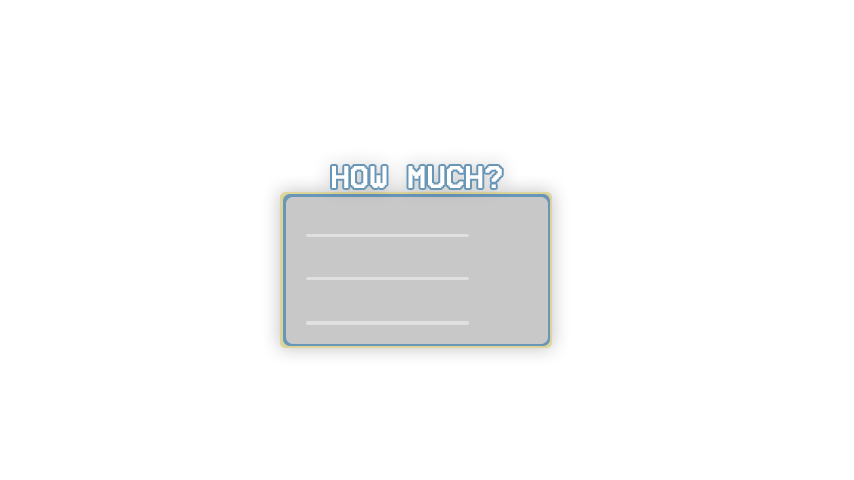
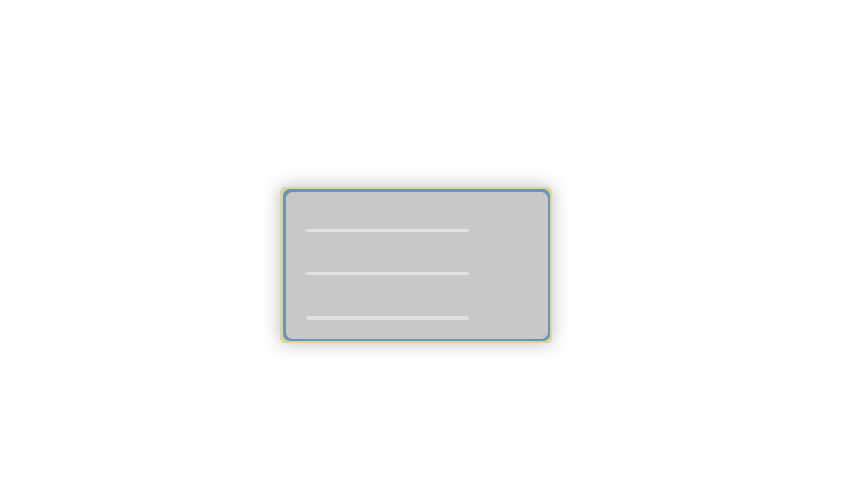
shop

Changed region(s): [[0.3044, 0.3438, 0.6698, 0.4375], [0.3349, 0.6875, 0.6698, 0.75]]

diff --git a/core/src/it/slagyom/ShopScreen.java b/core/src/it/slagyom/ShopScreen.java
@@ -72,6 +72,7 @@ public class ShopScreen implements Screen {
 	// di quel tipo si vogliono
 	public ShopScreen(final GameSlagyom game) {
 		this.game = game;
+
 		// SCREEN INITIALIZING
 		camera = new OrthographicCamera();
 		viewport = new ExtendViewport(854, 480, camera);
@@ -108,25 +109,25 @@ public class ShopScreen implements Screen {
 		coins = new Label("" + Game.player.coins, MenuScreen.skin);
 
 		buyButton.addListener(new ClickListener() {
-			@SuppressWarnings("static-access")
 			@Override
 			public void clicked(InputEvent event, float x, float y) {
 				// se non si scrive nulla nei text field da problemi
 				// bisgna assicurarsi che ci sia scritto qualcosa
 				boolean buy = false;
-				if (potionsTable.isVisible() && level3n.getText() != null) {
-					int tmp = (int) (Game.player.coins - (Integer.parseInt(level3n.getText())) * itemSelected.price);
+				if (potionsTable.isVisible() && level2n.getText() != null) {
+					int tmp = (int) (Game.player.coins - (Integer.parseInt(level2n.getText())) * itemSelected.price);
 					if (tmp >= 0) {
 						buy = true;
 						refreshedCoins = tmp;
-						Game.player.bag.add(itemSelected);
+						Item a = new Item();
+						for (int i = 0; i < Integer.parseInt(level2n.getText()); i++)
+							Game.player.bag.add(itemSelected);
 					}
 
 				}
 				if (weaponsTable.isVisible()) {
 					int tmp = (int) (Game.player.coins - weaponSelected.price);
-					if(tmp >= 0)
-					{
+					if (tmp >= 0) {
 						buy = true;
 						refreshedCoins = tmp;
 						Game.player.bag.add(weaponSelected);
@@ -186,11 +187,13 @@ public class ShopScreen implements Screen {
 		level1n.setPosition(482, 240);
 		level2n.setPosition(482, 198);
 		level3n.setPosition(482, 154);
+		LoadingImage.howMuch.setPosition(0, 0);
 		optionsTable.add(buyButton);
 		optionsTable.add(returnButton);
 		buyingTable.add(level1n);
 		buyingTable.add(level2n);
 		buyingTable.add(level3n);
+
 		// SETTING POSITION AND VISIBILITY OF TABLE'S PARTS
 		LoadingImage.emptyShopIcon.setPosition(141, 43);
 		LoadingImage.rightArrow.setPosition(283, 274);
@@ -206,6 +209,7 @@ public class ShopScreen implements Screen {
 		optionsTable.add(LoadingImage.leftArrow);
 		optionsTable.add(LoadingImage.emptyShopIcon);
 		// END OPTIONS TABLE
+
 		// POTIONS TABLE
 		potionsTable = new Table();
 		potionsTable.setLayoutEnabled(false);
@@ -234,16 +238,14 @@ public class ShopScreen implements Screen {
 			@Override
 			public void clicked(InputEvent event, float x, float y) {
 				showInfo(LoadingImage.bluePotion);
+				LoadingImage.howMuch.setVisible(true);
 				buying = true;
-				textTable = new Label("Insert number", MenuScreen.skin);
-				textTable.setWidth(10);
-				itemSelected.setElement(Element.POTION);
-				itemSelected.setLevel(Level.FIRST);
+				itemSelected = new Item(Element.POTION, Level.FIRST);
 				buyingTable.clear();
-				textTable.setPosition(302, 202);
-				buyingTable.add(textTable);
 				buyingTable.setVisible(true);
-				buyingTable.add(level3n);
+				buyingTable.add(textTable);
+				buyingTable.add(LoadingImage.howMuch);
+				buyingTable.add(level2n);
 				buyingTable.add(buyButton);
 				buyingTable.add(returnButton);
 			}
@@ -253,18 +255,17 @@ public class ShopScreen implements Screen {
 			@Override
 			public void clicked(InputEvent event, float x, float y) {
 				showInfo(LoadingImage.redPotion);
+				LoadingImage.howMuch.setVisible(true);
 				buying = true;
-				textTable = new Label("Insert number", MenuScreen.skin);
-				textTable.setWidth(10);
 				buyingTable.clear();
-				textTable.setPosition(302, 202);
-				buyingTable.add(textTable);
 				buyingTable.setVisible(true);
-				buyingTable.add(level3n);
+				buyingTable.add(textTable);
+				buyingTable.add(LoadingImage.howMuch);
+				buyingTable.add(level2n);
 				buyingTable.add(buyButton);
 				buyingTable.add(returnButton);
-				itemSelected.setElement(Element.POTION);
-				itemSelected.setLevel(Level.SECOND);
+				itemSelected = new Item(Element.POTION, Level.SECOND);
+
 			}
 		});
 
@@ -272,18 +273,17 @@ public class ShopScreen implements Screen {
 			@Override
 			public void clicked(InputEvent event, float x, float y) {
 				showInfo(LoadingImage.greenPotion);
+				LoadingImage.howMuch.setVisible(true);
 				buying = true;
-				textTable = new Label("Insert number", MenuScreen.skin);
-				textTable.setWidth(10);
 				buyingTable.clear();
-				textTable.setPosition(302, 202);
-				buyingTable.add(textTable);
 				buyingTable.setVisible(true);
-				buyingTable.add(level3n);
+				buyingTable.add(textTable);
+				buyingTable.add(LoadingImage.howMuch);
+				buyingTable.add(level2n);
 				buyingTable.add(buyButton);
 				buyingTable.add(returnButton);
-				itemSelected.setElement(Element.POTION);
-				itemSelected.setLevel(Level.THIRD);
+				itemSelected = new Item(Element.POTION, Level.THIRD);
+
 			}
 		});
 
@@ -326,19 +326,19 @@ public class ShopScreen implements Screen {
 				lev1.setVisible(true);
 				lev2.setVisible(true);
 				lev3.setVisible(true);
-				lev1.addListener(new ClickListener(){
+				lev1.addListener(new ClickListener() {
 					@Override
 					public void clicked(InputEvent event, float x, float y) {
 						weaponSelected = new Weapon(it.slagyom.src.World.Weapon.Level.lev1, Type.Sword);
 					}
 				});
-				lev2.addListener(new ClickListener(){
+				lev2.addListener(new ClickListener() {
 					@Override
 					public void clicked(InputEvent event, float x, float y) {
-						weaponSelected = new Weapon(it.slagyom.src.World.Weapon.Level.lev3, Type.Sword);
+						weaponSelected = new Weapon(it.slagyom.src.World.Weapon.Level.lev2, Type.Sword);
 					}
 				});
-				lev3.addListener(new ClickListener(){
+				lev3.addListener(new ClickListener() {
 					@Override
 					public void clicked(InputEvent event, float x, float y) {
 						weaponSelected = new Weapon(it.slagyom.src.World.Weapon.Level.lev3, Type.Sword);

diff --git a/core/src/it/slagyom/LoadingImage.java b/core/src/it/slagyom/LoadingImage.java
@@ -86,6 +86,8 @@ public class LoadingImage {
 	public static ImageButton emptyShopIcon;
 	public static ImageButton leftArrow;
 	public static ImageButton rightArrow;
+	public static ImageButton howMuch;
+
 
 	// AUDIO & MUSIC
 
@@ -135,7 +137,7 @@ public class LoadingImage {
 				new TextureRegionDrawable(new TextureRegion(new Texture("res/bag/emptyIcon.png"))));
 		emptyShopIcon = new ImageButton(
 				new TextureRegionDrawable(new TextureRegion(new Texture("res/shop/emptyIcon.png"))));
-		
+		howMuch = new ImageButton(new TextureRegionDrawable(new TextureRegion(new Texture("res/shop/howMuch.png"))));
 		cursor = new Pixmap(Gdx.files.internal("res/cursor.png"));
 		noCursor = new Pixmap(Gdx.files.internal("res/noCursor.png"));
 

diff --git a/core/src/staticObjects/Item.java b/core/src/staticObjects/Item.java
@@ -41,7 +41,12 @@ public class Item extends StaticObject {
 		this.level = level;
 		picked = false;
 	}
-
+	
+	public Item(Element element, Level level) {
+		setLevel(level);
+		this.element = element;
+	}
+	
 	public Item() {
 		Random rand = new Random();
 		int r = rand.nextInt(2);
